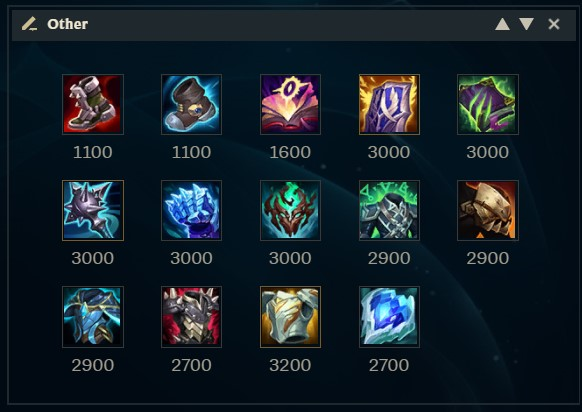
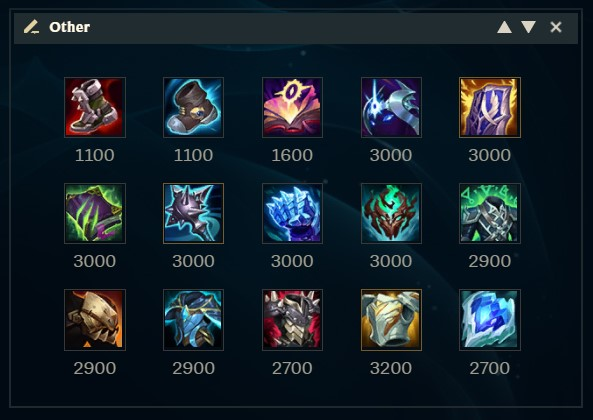
update to Udyr and MF

diff --git a/index.html b/index.html
@@ -519,7 +519,8 @@
             <img src="asset/MF_Item5.jpg" alt="MF_Item5">
             <div>
                 Bản 12.21 buff AP scale của chiêu E. Từ bản này, mình không còn dùng build Liandry ở trên nữa.<br>
-                Như các bạn thấy, không có <em>Ngọn lửa hắc hoả, Trượng Hư vô</em> hay <em>Mũ phù thuỷ</em> trong hình. Lý do là vì mặc dù được buff, scale theo AP của chiêu E vẫn rất tệ. Các món đồ trong build này tập trung nhiều hơn vào hồi chiêu và hiệu ứng.<br>
+                <em>Động cơ vũ trụ</em> nếu cần thêm slow, và <em>Trượng Hư vô</em> nếu cần dmg.<br>
+                <em>Mũ trụ nguyền rủa: </em> chỉ mua khi đối phương có rất nhiều HP (Sion, Cho'gath, Zac,...).<br>
                 <b>Lưu ý: </b>tác dụng chính của build AP là đa dạng hoá nguồn dmg, chỉ sử dụng khi team không có AP/khi đi hỗ trợ.
             </div>
     </section>    
@@ -632,7 +633,7 @@
                 Nên mua <em>Phong ấn hắc ám</em> để có cơ hội nâng cấp thành <em>Mejai</em>. <em>Mejai</em> không chỉ có AP mà còn cho 100 HP và 10% MS cộng thêm, tất cả chỉ với 1600g.<br>
                 <em>Mũ trụ nguyền rủa: </em>Core item trong các build lên đồ thần thoại tank. Hãy nhớ, đối với Udyr, AP không chỉ là dmg mà còn là chống chịu thông qua lớp khiên W, và chúng ta luôn max W 2nd. Lượng dmg từ item này giúp Udyr clear rừng và solo rồng, sứ giả nhanh hơn nhiều. Đặc biệt, từ sau khi được rework, Udyr có thể kích hoạt nâng cấp R (skill nhiều dmg nhất) từ khoảng cách rất xa.<br>
                 <em>Jak'sho: </em>Có lẽ là món thần thoại phù hợp nhất dành cho Udyr. Không giống như các tướng khác, cách engage của Udyr đơn giản là chạy bộ vào, nên rất dễ bị đối phương poke và kích hoạt <em>Jak'sho</em>.
-                <br>Ở phiên bản 13.7, <em>Động cơ vũ trụ</em> vừa được buff. Đây là một món đồ khá phù hợp cho Udyr, tuy nhiên mình chưa đủ tự tin để cho vào bài viết này.
+                <br>Ở phiên bản 13.7, <em>Động cơ vũ trụ</em> vừa được buff. Đây là một món đồ khá phù hợp cho Udyr, giúp bắt kịp các tướng đánh xa.
             </div>
 
             <img src="asset/Udyr_Item3.jpg" alt="Udyr_Item3"><br>
